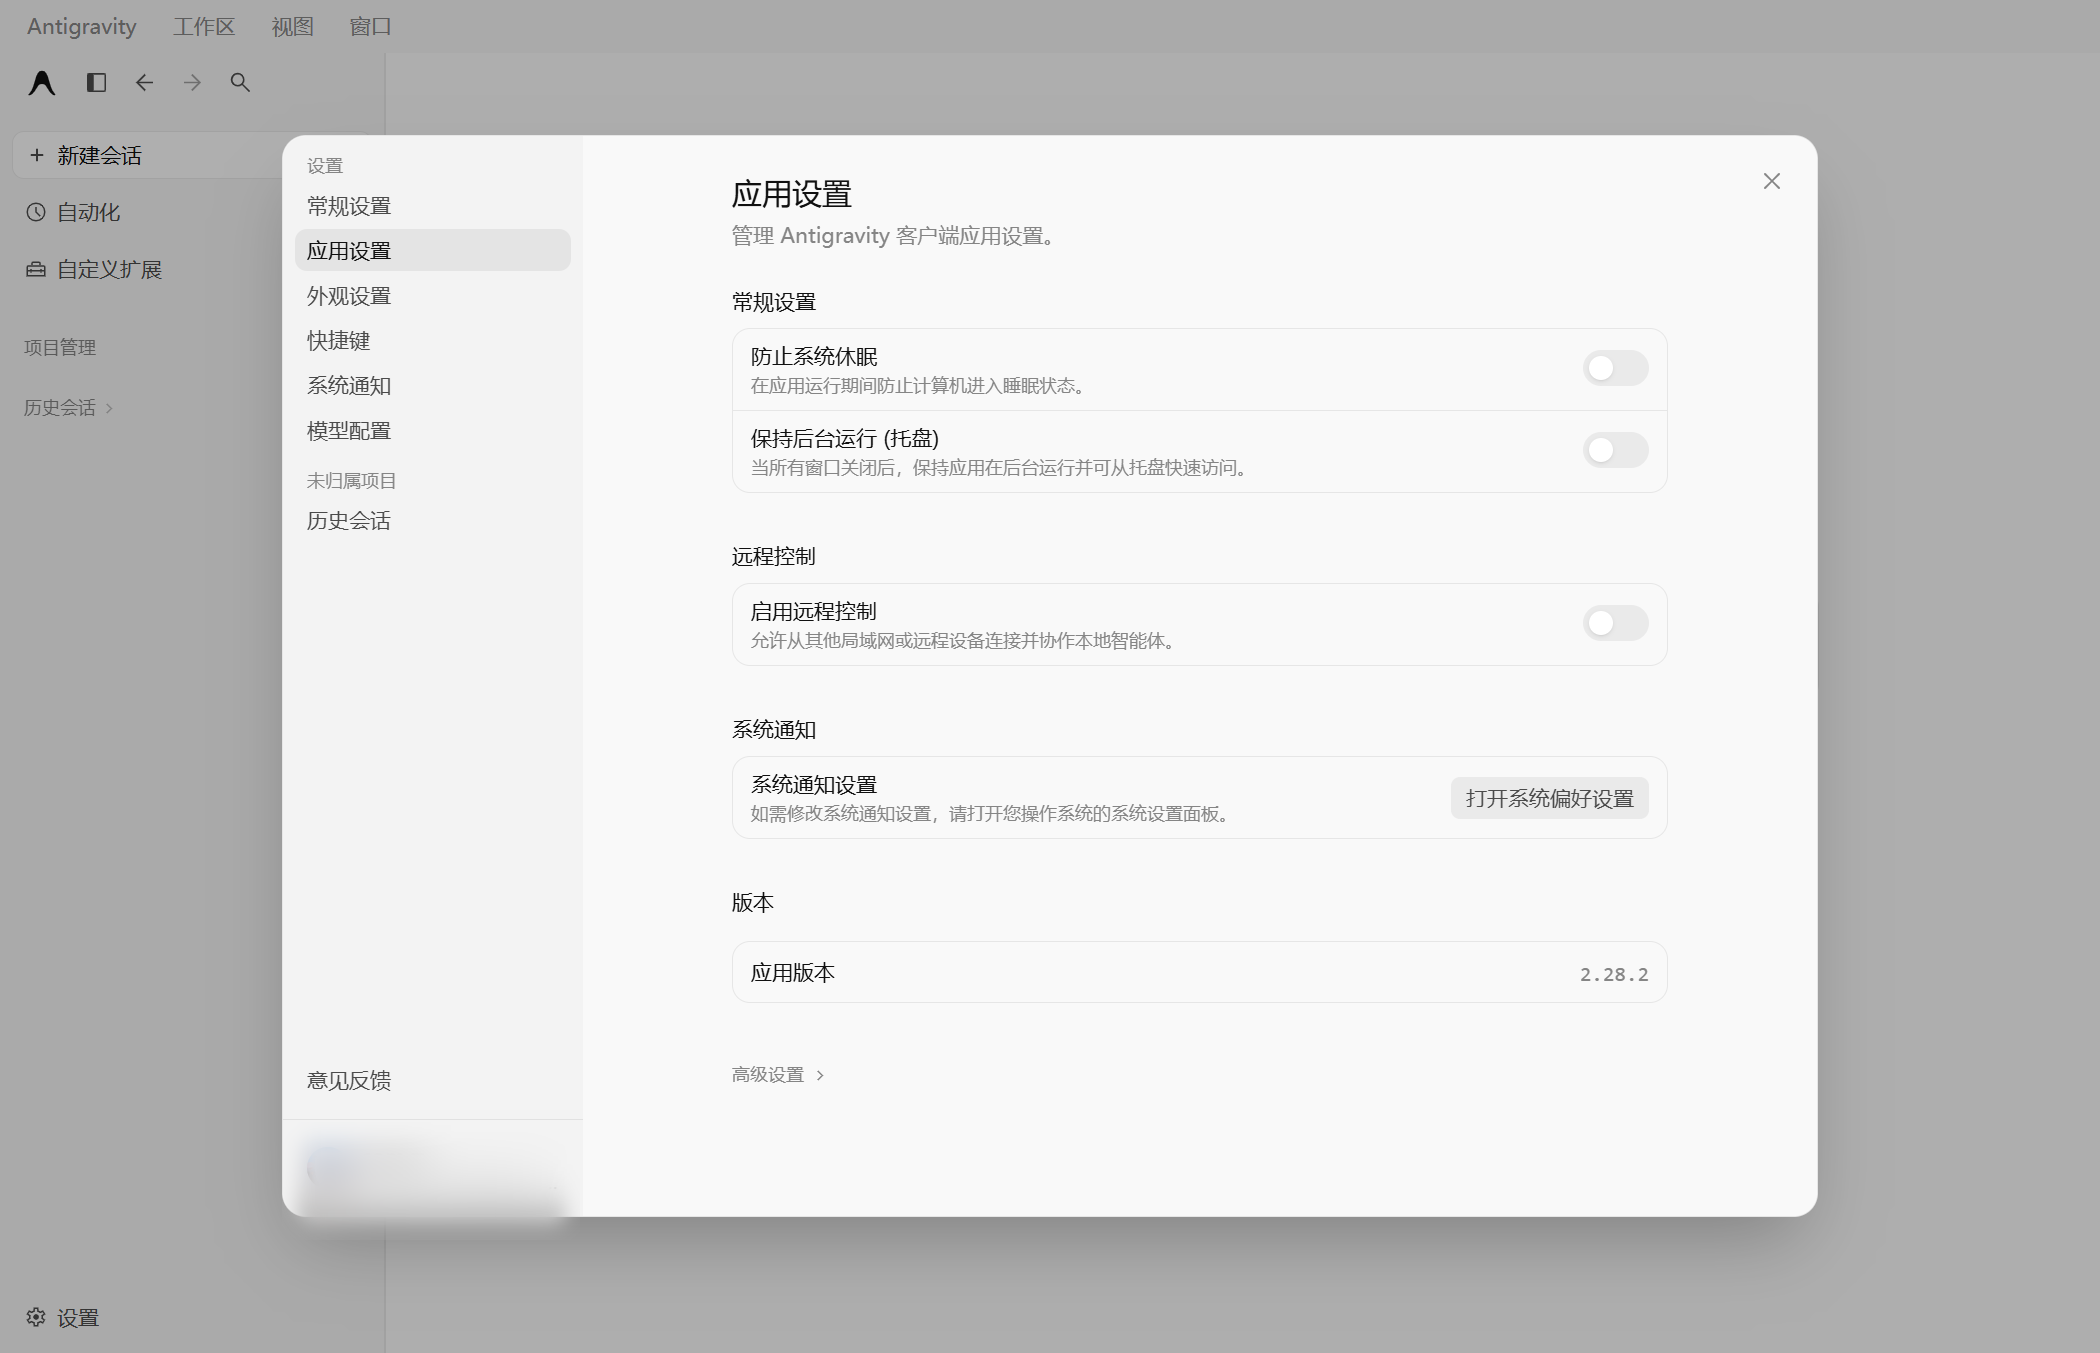
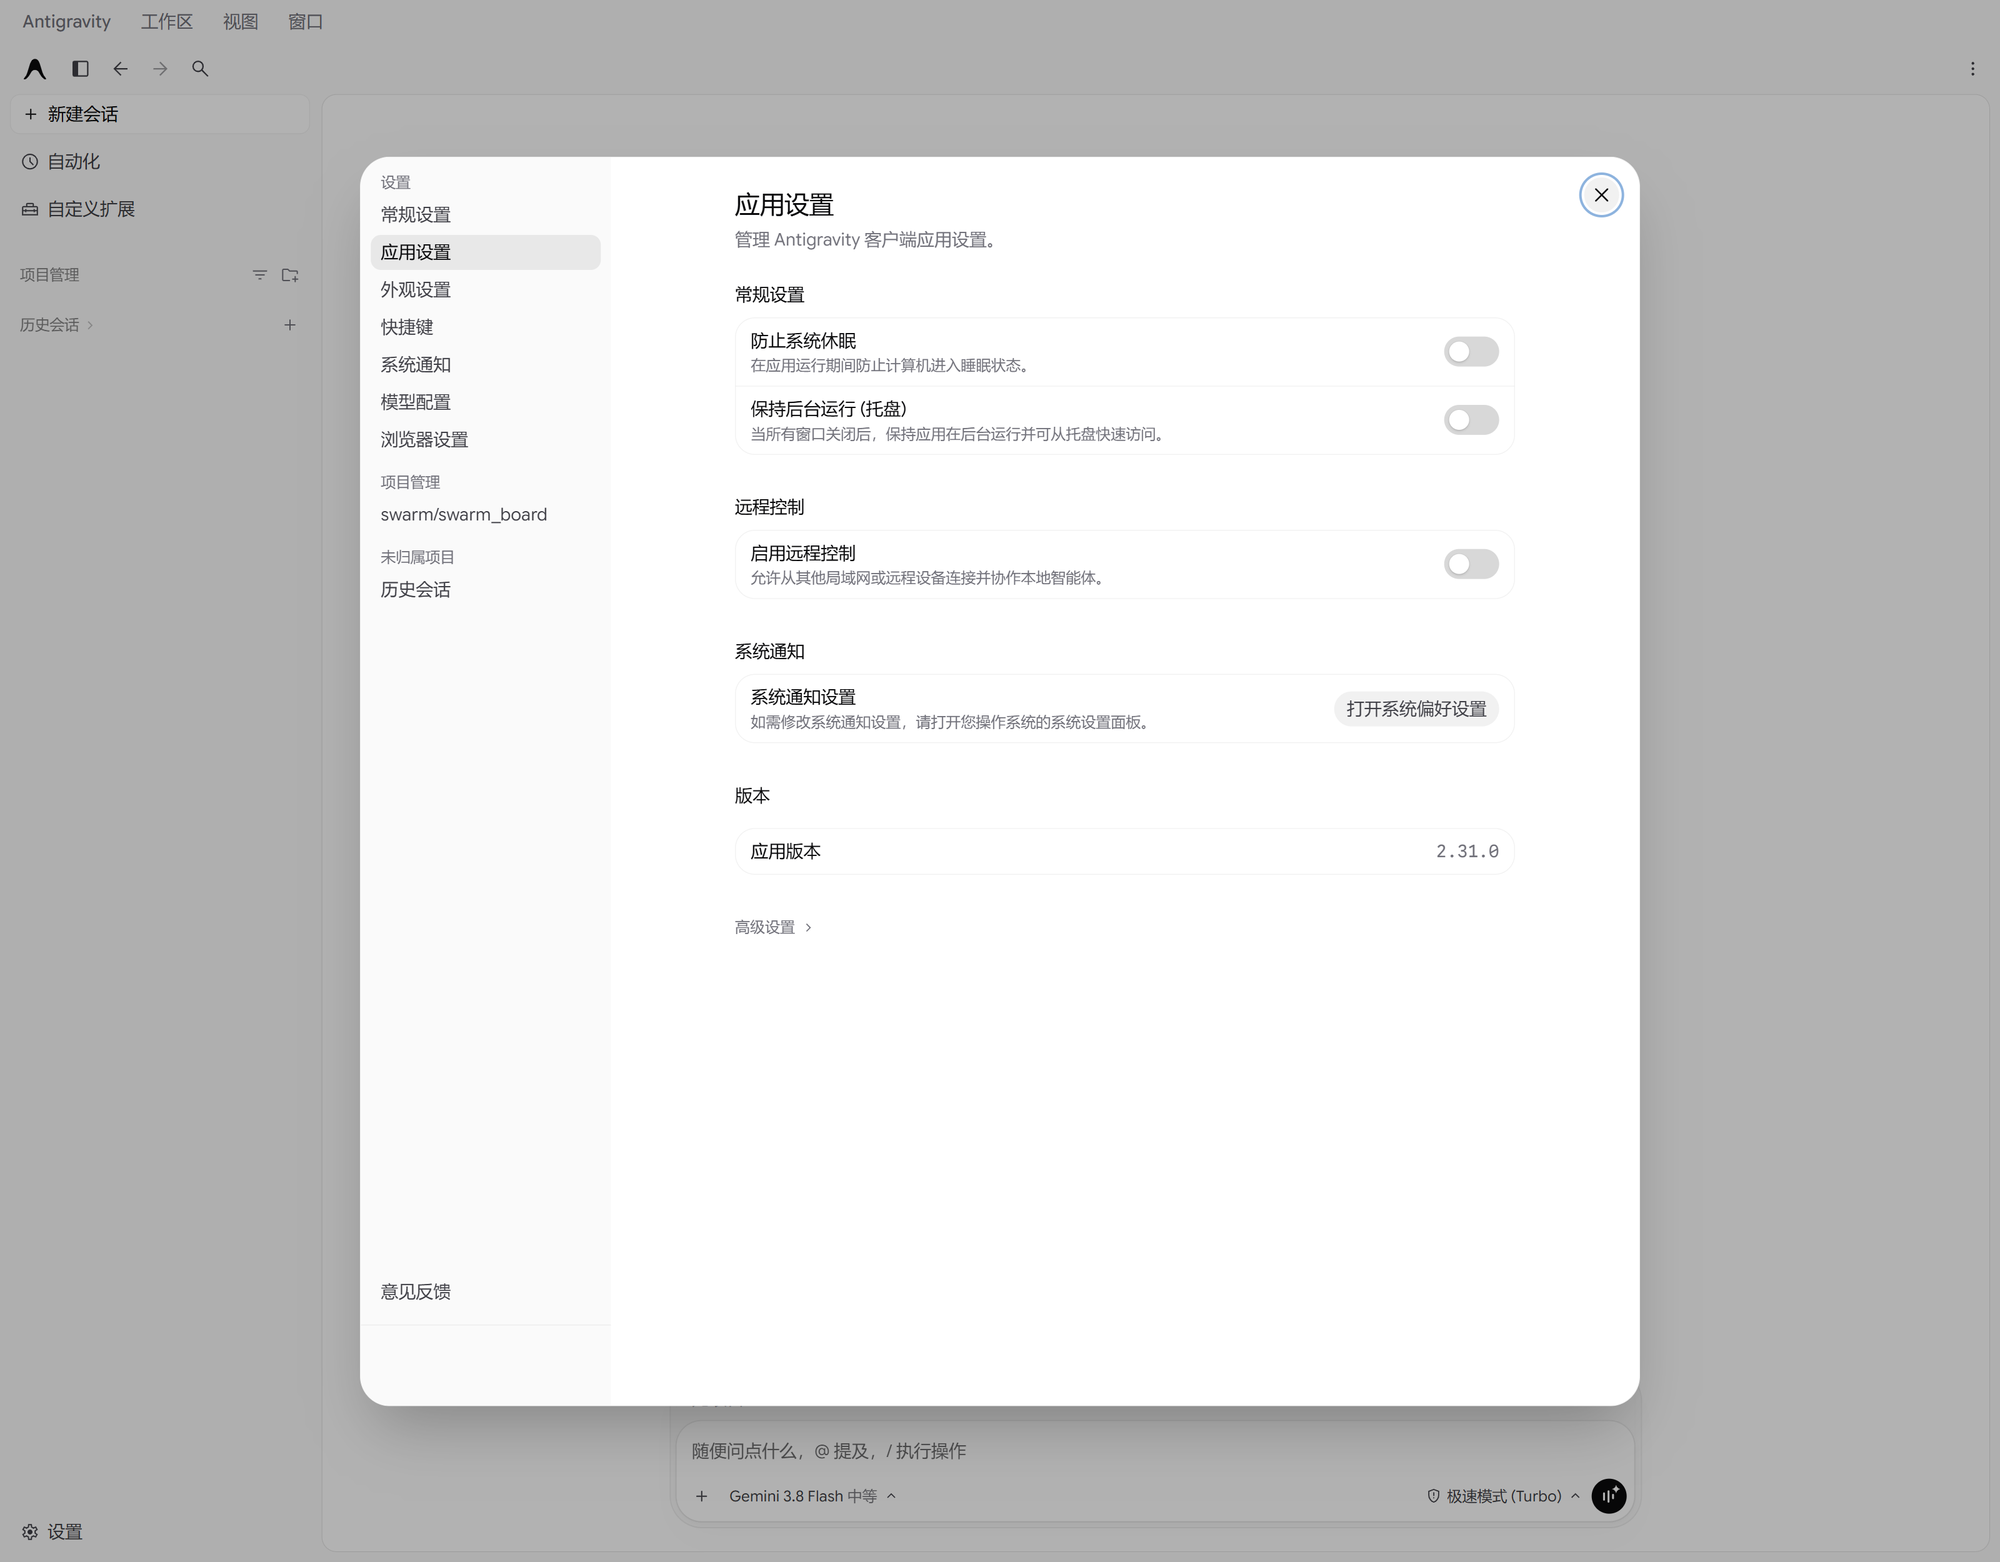
docs(readme): README 截图更新到 2.31.0，账户信息在截图时就遮掉
原来的三张图还是 2.28.2 的（设置页里明明白白写着「应用版本 2.28.2」），
用户一眼就看出来了。这次按 2.31.0 重截：

- main.png            首页（新版问候区 + 输入卡片）
- settings-general    常规设置（界面布局 / 全局权限 / 智能体行为 / 执行 / 语音模式）
- settings-appearance 外观设置（浅色 + 深色主题，新增）
- settings-app        应用设置（版本号显示 2.31.0）

截图脚本换成 scripts/shot_readme.js：一次跑完主界面 + 四个设置页。
要点：

1. 用 Emulation.setDeviceMetricsOverride 把视口临时放大到 1600x1250 再截。
   Electron 不认窗口尺寸覆盖，1150 高度会把「语音模式」切掉一半，1250 一屏放得下。
2. 隐私**在截图时遮**：注入 CSS 把 .home-greeting-title（「欢迎回来，xxx」）
   和设置面板左下角账号卡片（头像/用户名/邮箱）设成 visibility:hidden，截完移除。
   不再用事后 14px 马赛克——老做法坐标写死在 2100x1353 上，界面一改版就全废，
   而且漏糊一次就泄露邮箱（11-02 漏过一次）。
3. tools/redact_screenshots.py 相应简化：只做 2000px 宽等比缩放 + 压缩落盘，
   读 build/readme_shots/ 而不是早已删掉的 build/_shots/。

README 用图从 3 张加到 4 张，标题加注「截图取自官方 2.31.0」。
docs/MAINTAINER.md 的发版检查清单同步换成新的两条命令，并写明为什么别再用糊图。

diff --git a/scripts/shot_readme.js b/scripts/shot_readme.js
@@ -1,0 +1,174 @@
+// 生成 README 用的界面截图：连运行中客户端的 CDP，按固定视口截主界面与设置面板。
+//
+// 用法:
+//   node scripts/shot_readme.js [输出目录]
+//   默认输出 build/readme_shots/
+//
+// 说明：截图前会用 Emulation.setDeviceMetricsOverride 把渲染视口临时放大到
+// 1600x1150（dpr 2），这样设置面板能一屏放下、不被滚动条截断；截完立即清除，
+// 用户窗口本身不变化。
+const fs = require('fs');
+const path = require('path');
+const http = require('http');
+
+const portFile = path.join(process.env.APPDATA, 'Antigravity', 'DevToolsActivePort');
+let port = parseInt(fs.readFileSync(portFile, 'utf8').trim().split(/\r?\n/)[0], 10);
+
+const outDir = process.argv[2] || path.join(__dirname, '..', 'build', 'readme_shots');
+// 1250 是「常规设置」一屏放得下（无滚动条）的最小高度，实测 1150 会截断
+const VIEW = { width: 1600, height: 1250, deviceScaleFactor: 2, mobile: false };
+
+// 截图前临时隐藏个人信息：首页问候语带账户名，设置面板左下角带头像/邮箱。
+// 只做展示用，截完立即移除，不改动用户数据。
+const CLEAN_CSS = `
+.home-greeting-title, [data-testid="settings-nav-item-Account"] { visibility: hidden !important; }
+`;
+const INJECT = `(() => {
+  let s = document.getElementById('rd-clean');
+  if (!s) { s = document.createElement('style'); s.id = 'rd-clean'; document.head.appendChild(s); }
+  s.textContent = ${JSON.stringify(CLEAN_CSS)};
+  return 'INJECTED';
+})()`;
+const REMOVE = `(() => { const s = document.getElementById('rd-clean'); if (s) s.remove(); return 'REMOVED'; })()`;
+
+const sleep = (ms) => new Promise((ok) => setTimeout(ok, ms));
+
+function getJson(url) {
+    return new Promise((resolve, reject) => {
+        http.get(url, (res) => {
+            let d = '';
+            res.on('data', (c) => (d += c));
+            res.on('end', () => { try { resolve(JSON.parse(d)); } catch (e) { reject(e); } });
+        }).on('error', reject);
+    });
+}
+
+function connect(wsUrl) {
+    return new Promise((resolve, reject) => {
+        const ws = new WebSocket(wsUrl);
+        let id = 0;
+        const pending = new Map();
+        ws.onmessage = (ev) => {
+            const m = JSON.parse(ev.data);
+            if (m.id && pending.has(m.id)) { pending.get(m.id)(m); pending.delete(m.id); }
+        };
+        ws.onerror = () => reject(new Error('websocket 连接失败'));
+        ws.onopen = () => resolve({
+            call: (method, params) => new Promise((res, rej) => {
+                const i = ++id;
+                pending.set(i, (m) => (m.error ? rej(new Error(JSON.stringify(m.error))) : res(m.result)));
+                ws.send(JSON.stringify({ id: i, method, params: params || {} }));
+            }),
+            evaluate: (expr) => new Promise((res, rej) => {
+                const i = ++id;
+                pending.set(i, (m) => {
+                    if (m.error) return rej(new Error(JSON.stringify(m.error)));
+                    const r = m.result && m.result.result;
+                    if (!r) return rej(new Error('no result'));
+                    if (r.subtype === 'error') return rej(new Error(r.description || 'eval error'));
+                    res(r.value);
+                });
+                ws.send(JSON.stringify({
+                    id: i,
+                    method: 'Runtime.evaluate',
+                    params: { expression: expr, returnByValue: true, awaitPromise: true },
+                }));
+            }),
+            close: () => ws.close(),
+        });
+    });
+}
+
+// 点击文本完全相等的可见叶子节点，取面积最大的那个
+const clickExpr = (label) => `(() => {
+  const want = ${JSON.stringify(label)};
+  const vis = [...document.querySelectorAll('*')].filter((el) => {
+    if (el.children.length) return false;
+    if (el.textContent.trim() !== want) return false;
+    const r = el.getBoundingClientRect();
+    if (r.width < 4 || r.height < 4) return false;
+    const s = getComputedStyle(el);
+    return s.visibility !== 'hidden' && s.display !== 'none' && s.opacity !== '0';
+  });
+  if (!vis.length) return 'NOTFOUND';
+  vis.sort((a, b) => {
+    const ra = a.getBoundingClientRect(), rb = b.getBoundingClientRect();
+    return rb.width * rb.height - ra.width * ra.height;
+  });
+  const el = vis[0];
+  el.scrollIntoView({ block: 'center' });
+  el.click();
+  return 'CLICKED';
+})()`;
+
+(async () => {
+    // 端口自愈：动态端口重启后 DevToolsActivePort 常停留在旧值
+    const probe = (p) => new Promise((res) => {
+        const req = http.get(`http://127.0.0.1:${p}/json/version`, (r) => { r.resume(); res(r.statusCode === 200); });
+        req.on('error', () => res(false));
+        req.setTimeout(800, () => { req.destroy(); res(false); });
+    });
+    if (!(await probe(port))) {
+        const cands = [];
+        for (let d = 1; d <= 40; d++) cands.push(port + d);
+        for (let p = 10989; p <= 11020; p++) cands.push(p);
+        for (const p of cands) {
+            if (await probe(p)) { console.log(`端口 ${p} 可达（文件值已失效，自动探测）`); port = p; break; }
+        }
+    }
+
+    const list = await getJson(`http://127.0.0.1:${port}/json/list`);
+    const pages = list.filter((t) => t.type === 'page' && /^https:/.test(t.url));
+    const target = pages.find((p) => p.title === 'Antigravity') || pages[0];
+    if (!target) throw new Error('找不到客户端页面，请先启动 Antigravity');
+
+    const c = await connect(target.webSocketDebuggerUrl);
+    await c.call('Page.enable');
+    fs.mkdirSync(outDir, { recursive: true });
+
+    const shoot = async (name) => {
+        const shot = await c.call('Page.captureScreenshot', { format: 'png', fromSurface: true });
+        const file = path.join(outDir, name + '.png');
+        fs.writeFileSync(file, Buffer.from(shot.data, 'base64'));
+        console.log(`  已保存 ${path.basename(file)} (${Math.round(fs.statSync(file).size / 1024)} KB)`);
+    };
+
+    await c.call('Emulation.setDeviceMetricsOverride', VIEW);
+    await sleep(1200);
+
+    // 1. 回主界面（关掉可能开着的设置面板/弹层）
+    for (let i = 0; i < 2; i++) {
+        await c.call('Input.dispatchKeyEvent', { type: 'keyDown', key: 'Escape', code: 'Escape', windowsVirtualKeyCode: 27 });
+        await c.call('Input.dispatchKeyEvent', { type: 'keyUp', key: 'Escape', code: 'Escape', windowsVirtualKeyCode: 27 });
+        await sleep(350);
+    }
+    await c.evaluate(clickExpr('关闭'));
+    await sleep(1200);
+    // 新建会话 -> 空白首页
+    console.log('新建会话: ' + (await c.evaluate(clickExpr('新建会话'))));
+    await sleep(1200);
+    console.log('隐藏账户信息: ' + (await c.evaluate(INJECT)));
+    await sleep(400);
+    console.log('主界面:');
+    await shoot('main');
+
+    // 2. 设置面板逐页
+    console.log('打开设置: ' + (await c.evaluate(clickExpr('设置'))));
+    await sleep(1500);
+    const PANELS = [
+        ['settings-general', '常规设置'],
+        ['settings-appearance', '外观设置'],
+        ['settings-app', '应用设置'],
+        ['settings-browser', '浏览器设置'],
+    ];
+    for (const [file, label] of PANELS) {
+        console.log(`切到「${label}」: ` + (await c.evaluate(clickExpr(label))));
+        await sleep(1200);
+        await shoot(file);
+    }
+
+    console.log('恢复界面: ' + (await c.evaluate(REMOVE)));
+    await c.call('Emulation.clearDeviceMetricsOverride', {});
+    c.close();
+    console.log(`\n完成，输出目录 ${outDir}`);
+})().catch((e) => { console.error('失败: ' + e.message); process.exit(1); });

diff --git a/tools/redact_screenshots.py b/tools/redact_screenshots.py
@@ -1,54 +1,47 @@
 #!/usr/bin/env python3
-"""把 README 用的两张截图做隐私打码。
+"""把 build/readme_shots/ 的原始截图压成 README 用的成品图，落到 docs/screenshots/。
 
-为什么单独做成脚本：这两张图里出现过 1) Google 账户头像/用户名/邮箱 2) 侧栏历史会话标题，
-  第一次手工处理时只盖了邮箱、漏了用户名和头像，也漏了 settings.png 的历史列表。
+打码策略（2026-11-11 起）：**在截图时就遮掉**，不再事后糊图。
+scripts/shot_readme.js 会在按快门前往页面注入一段 CSS，把
+  .home-greeting-title                          首页「欢迎回来，xxx」
+  [data-testid="settings-nav-item-Account"]      设置面板左下角 头像 + 用户名 + 邮箱
+设为 visibility:hidden，截完立刻移除。这样成品图里就没有个人信息，
+也就不存在「糊得不够被还原」的问题（老做法是 14px 马赛克，还要按 2100x1353 手写坐标，
+界面一改版坐标全废）。
 
-做法：从 build/_shots/ 的**原始截图**重新生成，而不是在已发布的图上二次处理
-  （二次处理会叠加模糊层，越糊越看不出来遮了什么）。
-
-像素化而不是高斯模糊：16px 块把字压成色块，信息不可恢复；
-  高斯模糊在被裁切放大后仍有被辨认的可能。
+本脚本只做三件事：等比缩到 2000px 宽、转成压缩 PNG、核对成品。
 
 用法：
-    python tools/redact_screenshots.py
-
-注意：build/_shots/ 里的原始截图**已于 2026-11-02 删除**（含明文 Gmail，只保留打码版）。
-  现在重跑会全部 [SKIP]。要用它，得先按 2100x1353（2x DPR）重新截图放到 build/_shots/，
-  并重新核对下面 REGIONS 的坐标——尺寸或界面布局变了，坐标就全部作废。
+    node scripts/shot_readme.js          # 先截图（客户端需在运行）
+    python tools/redact_screenshots.py   # 再压图
 """
 from pathlib import Path
 
 from PIL import Image
 
-BLOCK = 14
 ROOT = Path(__file__).resolve().parent.parent
-RAW_DIR = ROOT / "build" / "_shots"
+SRC_DIR = ROOT / "build" / "readme_shots"
 OUT_DIR = ROOT / "docs" / "screenshots"
 
-# 坐标基于 2100x1353 的原图（2x DPR 截图），单位是像素
-REGIONS = {
-    # 设置页：账户卡片里 头像 + 用户名 + 邮箱 两行
-    "settings.png": [
-        (294, 1128, 360, 1192),   # 头像
-        (354, 1144, 580, 1200),   # "com π" 用户名 + a2...@gmail 邮箱
-        (12, 416, 280, 628),      # 侧栏 4 条历史会话标题
-    ],
-    # 主界面：项目管理下的项目/会话列表
-    "main.png": [
-        (8, 400, 394, 642),
-    ],
-}
+# README 里用到的几张，顺序即 README 出现顺序
+FILES = [
+    "main.png",
+    "settings-general.png",
+    "settings-appearance.png",
+    "settings-app.png",
+]
 
-# 原始截图来源：settings 的原始件是 settings.png，主界面的原始件是 _current.png
-SOURCES = {
-    "settings.png": RAW_DIR / "settings.png",
-    "main.png": RAW_DIR / "_current.png",
-}
+# 目标宽度：GitHub README 正文约 880px，2x 屏下 2000px 已经够清晰
+TARGET_W = 2000
+
+# 兜底：万一以后某张图又漏了敏感区域，在这里按 2000px 宽坐标系补马赛克
+# 例：{"settings-app.png": [(x0, y0, x1, y1)]}
+REGIONS: dict[str, list[tuple[int, int, int, int]]] = {}
+BLOCK = 14
 
 
 def mosaic(im: Image.Image, box: tuple[int, int, int, int], block: int = BLOCK) -> None:
-    """原地打码：把区域缩到 1/block 再放大回原尺寸，保留大致明暗、丢掉全部细节。"""
+    """原地打码：缩到 1/block 再放大回原尺寸，保留明暗、丢掉细节。"""
     x0, y0, x1, y1 = box
     w, h = x1 - x0, y1 - y0
     if w <= 0 or h <= 0:
@@ -59,19 +52,32 @@ def mosaic(im: Image.Image, box: tuple[int, int, int, int], block: int = BLOCK) 
 
 
 def main() -> int:
+    if not SRC_DIR.exists():
+        print(f"[ERR] 缺少原始截图目录 {SRC_DIR}，先跑 node scripts/shot_readme.js")
+        return 2
     OUT_DIR.mkdir(parents=True, exist_ok=True)
-    for name, boxes in REGIONS.items():
-        src = SOURCES[name]
+    missing = []
+    for name in FILES:
+        src = SRC_DIR / name
         if not src.exists():
-            print(f"[SKIP] 缺少原始截图 {src}")
+            missing.append(name)
             continue
         im = Image.open(src).convert("RGB")
-        for box in boxes:
+        if im.width > TARGET_W:
+            h = round(im.height * TARGET_W / im.width)
+            im = im.resize((TARGET_W, h), Image.LANCZOS)
+        for box in REGIONS.get(name, []):
             mosaic(im, box)
         out = OUT_DIR / name
         im.save(out, optimize=True)
-        kb = out.stat().st_size // 1024
-        print(f"[OK] {name}  {im.size[0]}x{im.size[1]}  {kb} KB  打码 {len(boxes)} 处")
+        print(f"[OK] {name:26} {im.size[0]}x{im.size[1]}  {out.stat().st_size // 1024} KB")
+    if missing:
+        print(f"[ERR] 缺少截图: {', '.join(missing)}")
+        return 1
+
+    stale = sorted(p.name for p in OUT_DIR.glob("*.png") if p.name not in FILES)
+    if stale:
+        print(f"[WARN] docs/screenshots 里有 README 未引用的旧图: {', '.join(stale)}")
     return 0
 
 

diff --git a/README.md b/README.md
@@ -11,9 +11,11 @@
 
 ![主界面](docs/screenshots/main.png)
 
-设置面板同样全部中文：
+设置面板同样全部中文（截图取自官方 2.31.0）：
 
 ![设置 · 常规设置](docs/screenshots/settings-general.png)
+
+![设置 · 外观设置](docs/screenshots/settings-appearance.png)
 
 ![设置 · 应用设置](docs/screenshots/settings-app.png)
 
